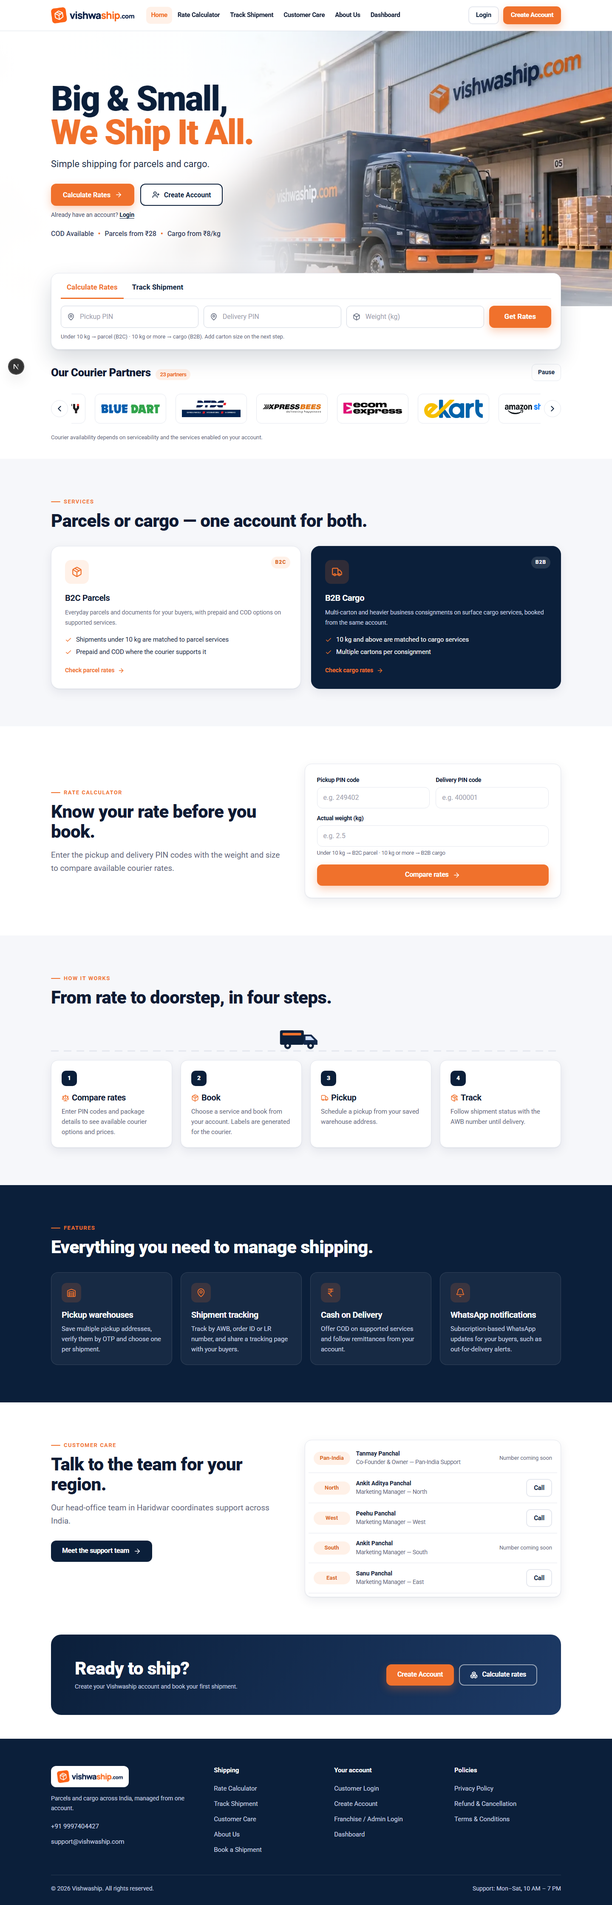
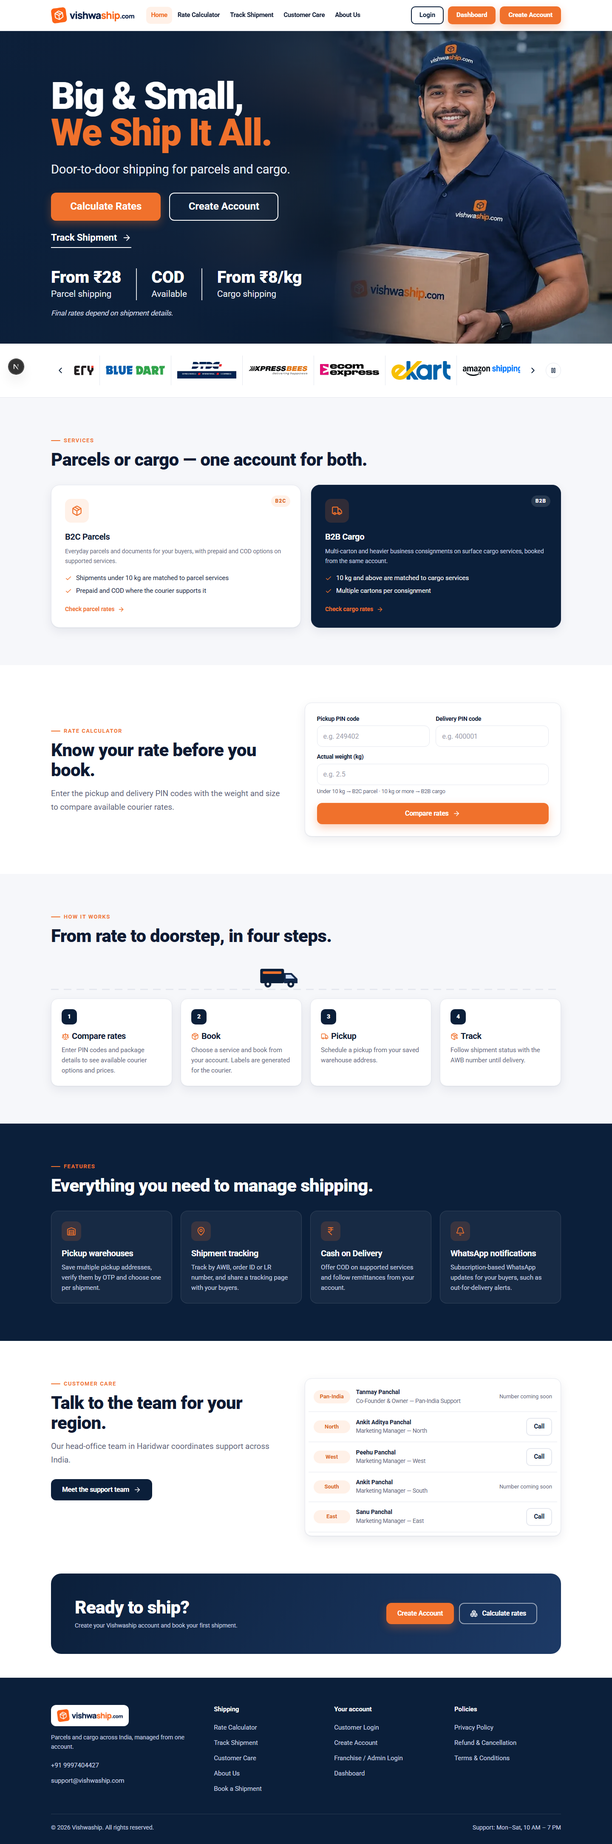
Home v4: navy courier hero, pricing highlights, header buttons per reference
- Warehouse/courier backgrounds for desktop and phones (public/brand/hero-courier-*.webp)
- Exact copy: Door-to-door line, Track Shipment link, From ₹28 / COD / From ₹8/kg + note
- Header: Login, Dashboard, Create Account; phones: logo, Dashboard, menu
- Partner strip below the hero; Admin fields for highlights and Track text

Changed region(s): [[0.0, 0.0, 1.0, 0.467], [0.0, 0.4982, 1.0, 0.9963], [0.0625, 0.4048, 0.4375, 0.467]]

diff --git a/src/styles/site-v2.css b/src/styles/site-v2.css
@@ -423,3 +423,76 @@
   .w-pin label{position:static;width:auto;height:auto;clip:auto;font-size:13.5px;font-weight:700;color:var(--n)}
 }
 @media (max-width:400px){.w-offerline span+span::before{margin:0 7px}}
+
+/* Header buttons (reference: Login outline · Dashboard · Create Account) */
+.w-btn.out{background:var(--w);color:var(--n);border:2px solid var(--n)}
+.w-btn.out:hover{background:var(--n);color:var(--w)}
+.w-acts .w-btn.sm{min-height:42px;padding:0 18px;font-size:15px}
+.w-mdash{min-height:42px!important;padding:0 14px!important;font-size:14px!important;gap:6px}
+
+/* Home hero v4: warehouse + courier photo, navy wash behind the text */
+.w-hero4{position:relative;isolation:isolate;background:var(--n);color:var(--w);overflow:hidden}
+.w-hero4 .w-hero-media{position:absolute;inset:0;z-index:-1;background:var(--n)}
+.w-hero4 .w-hero-media picture,.w-hero4 .w-hero-media img,.w-hero4 .w-hero-media video{display:block;width:100%;height:100%;object-fit:cover;object-position:right center}
+.w-hero4 .w-hero-media::after{content:"";position:absolute;inset:0;background:linear-gradient(90deg,rgba(11,31,58,.97) 0%,rgba(11,31,58,.92) 30%,rgba(11,31,58,.62) 50%,rgba(11,31,58,.18) 66%,rgba(11,31,58,.05) 100%)}
+.w-hero4 .in{padding:clamp(56px,6.4vw,92px) 20px clamp(40px,4.4vw,60px);min-height:clamp(560px,47vw,680px);display:flex;align-items:center}
+.w-hero4 .txt{max-width:690px}
+.w-hero4 .w-slogan{font-size:clamp(46px,6.1vw,92px);color:var(--w);line-height:.98}
+.w-hero4 .w-lead{color:#e6ebf4;font-size:clamp(18px,2vw,29px);margin-top:20px;max-width:none}
+.w-hero4 .w-btns{margin-top:30px;gap:20px}
+.w-hero4 .w-btn{min-height:clamp(52px,4.6vw,68px);padding:0 clamp(26px,3vw,46px);font-size:clamp(16px,1.7vw,24px);border-radius:12px}
+.w-hero4 .w-btn.sec{background:transparent;color:var(--w);border:2px solid var(--w)}
+.w-hero4 .w-btn.sec:hover{background:var(--w);color:var(--n)}
+.w-tracklink{display:inline-flex;align-items:center;gap:12px;margin-top:24px;color:var(--w);font-weight:700;font-size:clamp(17px,1.6vw,22px);text-decoration:none;padding-bottom:6px;border-bottom:2px solid var(--w)}
+.w-tracklink:hover{color:#ffb27f;border-color:#ffb27f}
+.w-tracklink svg{transition:transform .18s}
+.w-tracklink:hover svg{transform:translateX(4px)}
+.w-hl{margin-top:clamp(28px,3.4vw,48px)}
+.w-hl ul{list-style:none;margin:0;padding:0;display:flex;flex-wrap:wrap}
+.w-hl li{display:flex;flex-direction:column;gap:2px;padding:0 clamp(18px,2.4vw,36px)}
+.w-hl li:first-child{padding-left:0}
+.w-hl li+li{border-left:2px solid rgba(255,255,255,.85)}
+.w-hl b{font-size:clamp(24px,2.7vw,40px);font-weight:800;line-height:1.1;color:var(--w);white-space:nowrap}
+.w-hl span{font-size:clamp(14px,1.45vw,21px);color:#e6ebf4;white-space:nowrap}
+.w-hl p{margin:18px 0 0;font-style:italic;font-size:clamp(13px,1.15vw,17px);color:#d5dcea}
+.w-strip{background:var(--w);border-bottom:1px solid var(--ln)}
+.w-strip .pc{padding:22px 0}
+.pc-strip .pc-item a,.pc-strip .pc-item span{border:0;border-radius:0;height:clamp(56px,5vw,70px)}
+.pc-strip .pc-item+.pc-item a,.pc-strip .pc-item+.pc-item span{border-left:1px solid var(--ln)}
+.pc-strip .pc-track{gap:0;padding:6px 0}
+.pc-strip .pc-arrow{border:0;background:transparent;width:44px;height:44px}
+.pc-pause{border:1px solid var(--ln)!important;width:36px!important;height:36px!important}
+@media (min-width:720px) and (max-width:1023px){
+  .w-hero4 .txt{max-width:58%}
+  .w-hero4 .w-hero-media::after{background:linear-gradient(90deg,rgba(11,31,58,.97) 0%,rgba(11,31,58,.9) 40%,rgba(11,31,58,.5) 58%,rgba(11,31,58,.1) 78%)}
+  .w-hl li{padding:0 14px}
+  .w-hl b{font-size:22px}.w-hl span{font-size:13.5px}
+}
+@media (max-width:719px){
+  .w-hero4 .w-hero-media img,.w-hero4 .w-hero-media video{object-position:center bottom}
+  .w-hero4 .w-hero-media::after{background:linear-gradient(180deg,rgba(11,31,58,.96) 0%,rgba(11,31,58,.9) 30%,rgba(11,31,58,.55) 46%,rgba(11,31,58,.12) 60%,rgba(11,31,58,.25) 78%,rgba(11,31,58,.92) 92%),linear-gradient(90deg,rgba(11,31,58,.55) 0%,rgba(11,31,58,0) 60%)}
+  .w-hero4 .in{display:block;min-height:0;padding:40px 20px 28px}
+  .w-hero4 .w-hl{margin-top:clamp(200px,46vw,300px)}
+}
+@media (max-width:600px){
+  .w-hero4 .in{padding:30px 16px 24px}
+  .w-hero4 .w-slogan{font-size:clamp(38px,11.4vw,54px)}
+  .w-hero4 .w-lead{font-size:18px;margin-top:14px}
+  .w-hero4 .w-btns{flex-direction:column;align-items:stretch;gap:12px;max-width:min(270px,72vw)}
+  .w-hero4 .w-btn{width:100%;justify-content:center;min-height:54px;font-size:18px}
+  .w-tracklink{font-size:18px;margin-top:20px}
+  .w-hero4 .w-hl{margin-top:clamp(150px,52vw,230px)}
+  .w-hl ul{flex-wrap:nowrap;justify-content:space-between}
+  .w-hl li{padding:0 clamp(8px,3vw,14px);min-width:0}
+  .w-hl b{font-size:clamp(17px,5.6vw,24px)}
+  .w-hl span{font-size:clamp(11.5px,3.4vw,14px)}
+  .w-hl p{text-align:center;font-size:13px;margin-top:14px}
+  .w-strip .pc{padding:14px 0}
+  .pc-strip .pc-arrow{display:inline-flex;width:28px}
+  .pc-pause{display:none!important}
+  .pc-strip .pc-item a,.pc-strip .pc-item span{width:calc((100vw - 32px - 56px) / 3);height:48px;padding:4px 8px}
+}
+@media (max-width:360px){.w-mdash{padding:0 10px!important}.w-mdash svg{display:none}}
+@media (min-width:601px) and (max-width:719px){
+  .w-hero4 .w-hero-media::after{background:linear-gradient(90deg,rgba(11,31,58,.96) 0%,rgba(11,31,58,.86) 44%,rgba(11,31,58,.25) 64%,rgba(11,31,58,.05) 82%),linear-gradient(0deg,rgba(11,31,58,.95) 0%,rgba(11,31,58,.6) 18%,rgba(11,31,58,0) 34%)}
+}

diff --git a/src/components/site/HeroCtas.tsx b/src/components/site/HeroCtas.tsx
@@ -1,48 +1,31 @@
 "use client";
 import Link from "next/link";
-import { ArrowRight, LayoutDashboard, LogIn, Search, Shield, UserPlus } from "lucide-react";
+import { ArrowRight } from "lucide-react";
 import type { Links } from "@/lib/site-content";
 import type { SiteAuth } from "@/server/site/auth";
 import { accountLinks, useKnownBrowser } from "./SiteChromeV2";
 import { ADMIN_DASHBOARD } from "./nav";
 
 /**
- * Hero actions by account state:
- *  new / unknown visitor → Calculate Rates + Create Account (Login stays in the header)
- *  returning, signed out → Calculate Rates + Login (Create Account as a text link)
- *  signed-in customer    → Calculate Rates + Dashboard
- *  signed-in staff       → Calculate Rates + Admin Dashboard
+ * Hero actions (Calculate Rates + one account action + Track Shipment link), by account state:
+ *  new / unknown visitor → Create Account
+ *  returning, signed out → Login (Create Account stays in the header and menu)
+ *  signed-in customer    → Dashboard;   signed-in staff → Admin Dashboard
  */
-export function HeroCtas({ links, auth, text }: { links: Links; auth: SiteAuth; text: { primary: string; signup: string; login: string; dashboard: string } }) {
+export function HeroCtas({ links, auth, text }: { links: Links; auth: SiteAuth; text: { primary: string; signup: string; login: string; dashboard: string; track: string } }) {
   const known = useKnownBrowser();
   const L = accountLinks(links, auth);
-  const calc = <Link className="w-btn pri" href="/shipping-rate-calculator/">{text.primary} <ArrowRight size={18} aria-hidden="true" /></Link>;
-  if (auth.customer) return <div className="w-btns">{calc}<Link className="w-btn sec" href={L.dashboard}><LayoutDashboard size={18} aria-hidden="true" />{text.dashboard}</Link></div>;
-  if (auth.staff) return <div className="w-btns">{calc}<Link className="w-btn sec" href={ADMIN_DASHBOARD}><Shield size={18} aria-hidden="true" />Admin Dashboard</Link></div>;
-  if (known) {
-    return (
-      <>
-        <div className="w-btns">{calc}<a className="w-btn sec" href={L.login}><LogIn size={18} aria-hidden="true" />{text.login}</a></div>
-        <p className="w-hero-alt">Need another account? <a href={L.signup}>{text.signup}</a></p>
-      </>
-    );
-  }
+  const second = auth.customer ? <Link className="w-btn sec" href={L.dashboard}>{text.dashboard}</Link>
+    : auth.staff ? <Link className="w-btn sec" href={ADMIN_DASHBOARD}>Admin Dashboard</Link>
+      : known ? <a className="w-btn sec" href={L.login}>{text.login}</a>
+        : <a className="w-btn sec" href={L.signup}>{text.signup}</a>;
   return (
     <>
-      <div className="w-btns">{calc}<a className="w-btn sec" href={L.signup}><UserPlus size={18} aria-hidden="true" />{text.signup}</a></div>
-      <p className="w-hero-alt">Already have an account? <a href={L.login}>{text.login}</a></p>
-    </>
-  );
-}
-
-export function HeroTrack({ heading }: { heading: string }) {
-  return (
-    <form className="w-htrack" action="/track/" method="get" role="search" aria-label={heading}>
-      <label htmlFor="h-awb">{heading}</label>
-      <div className="f">
-        <input id="h-awb" name="awb" className="w-in" placeholder="Enter AWB or LR number" autoComplete="off" maxLength={40} required />
-        <button className="w-btn navy" type="submit"><Search size={18} aria-hidden="true" />Track</button>
+      <div className="w-btns">
+        <Link className="w-btn pri" href="/shipping-rate-calculator/">{text.primary}</Link>
+        {second}
       </div>
-    </form>
+      <Link className="w-tracklink" href="/track/">{text.track}<ArrowRight size={22} aria-hidden="true" /></Link>
+    </>
   );
 }

diff --git a/src/components/admin/WebsiteEditor.tsx b/src/components/admin/WebsiteEditor.tsx
@@ -130,9 +130,17 @@ export function WebsiteEditor({ initial, thresholdGrams }: { initial: Record<Sec
             <div className="split" style={{ gap: 12 }}><Field label="Login button (returning visitors)" value={h.loginCta} onChange={(v) => upd("home", { loginCta: v })} /><Field label="Dashboard button (signed-in customers)" value={h.dashboardCta} onChange={(v) => upd("home", { dashboardCta: v })} /></div>
             <Field label="Track box heading (hero)" value={h.trackHeading} onChange={(v) => upd("home", { trackHeading: v })} />
             <MediaField label="Hero background video (optional; MP4/WebM, muted, max 20 MB)" accept="video/mp4,video/webm" value={h.heroVideoUrl} onChange={(v) => upd("home", { heroVideoUrl: v })} hint="Keep it short (10–20 s) and compressed. Visitors with reduced motion or data saver see the poster." />
-            <MediaField label="Hero background — desktop (wide)" accept="image/png,image/jpeg,image/webp" value={h.heroPosterUrl} onChange={(v) => upd("home", { heroPosterUrl: v })} hint="About 1920×800 WebP/JPG under 400 KB. Keep the truck/warehouse on the right; the left is washed white behind the text." />
-            <MediaField label="Hero background — phone (portrait)" accept="image/png,image/jpeg,image/webp" value={h.heroMobileUrl} onChange={(v) => upd("home", { heroMobileUrl: v })} hint="About 780×1100. Light/empty at the top (behind the text), subject in the lower half." />
-            <Field label="Offer line under the buttons" value={h.offerLine} onChange={(v) => upd("home", { offerLine: v })} hint="Separate items with • — e.g. COD Available • Parcels from ₹28 • Cargo from ₹8/kg. Hidden when Offers are switched off for Home." />
+            <MediaField label="Hero background — desktop (wide)" accept="image/png,image/jpeg,image/webp" value={h.heroPosterUrl} onChange={(v) => upd("home", { heroPosterUrl: v })} hint="About 1920×800 WebP/JPG under 400 KB. Courier/subject on the right; the left is covered by the navy wash behind the text." />
+            <MediaField label="Hero background — phone (portrait)" accept="image/png,image/jpeg,image/webp" value={h.heroMobileUrl} onChange={(v) => upd("home", { heroMobileUrl: v })} hint="About 780×1400, used on phones (under 720 px). Quiet top for the text; courier lower-right." />
+            <Field label="Track link text" value={h.trackCta} onChange={(v) => upd("home", { trackCta: v })} />
+            <h3 className="small b mt12">Pricing highlights (under the buttons)</h3>
+            {h.highlights.map((x, i) => (
+              <div key={i} className="split" style={{ gap: 12 }}>
+                <Field label={`Highlight ${i + 1} — large text`} value={x.big} onChange={(v) => upd("home", { highlights: h.highlights.map((y, j) => (j === i ? { ...y, big: v } : y)) })} />
+                <Field label={`Highlight ${i + 1} — caption`} value={x.small} onChange={(v) => upd("home", { highlights: h.highlights.map((y, j) => (j === i ? { ...y, small: v } : y)) })} />
+              </div>
+            ))}
+            <Field label="Note under the highlights" value={h.highlightNote} onChange={(v) => upd("home", { highlightNote: v })} hint="Highlights are hidden when Offers are switched off for Home (Offers & features tab)." />
           </section>
           <section className="card" style={{ padding: 16 }}><h2 className="small b">Sections</h2>
             <Field label="Courier carousel heading" value={h.partnersHeading} onChange={(v) => upd("home", { partnersHeading: v })} />

diff --git a/src/components/site/PartnerCarousel.tsx b/src/components/site/PartnerCarousel.tsx
@@ -1,6 +1,6 @@
 "use client";
 import { useEffect, useRef, useState } from "react";
-import { ChevronLeft, ChevronRight } from "lucide-react";
+import { ChevronLeft, ChevronRight, Pause, Play } from "lucide-react";
 import type { Partner } from "@/lib/site-content";
 
 /**
@@ -9,7 +9,7 @@ import type { Partner } from "@/lib/site-content";
  * Pauses on hover, keyboard focus and touch (resumes a few seconds after the finger lifts); Pause button for
  * everyone; reduced-motion visitors get the same row without automatic movement. The loop copy is hidden from AT.
  */
-export function PartnerCarousel({ partners, heading, showCount = true, compact = false, bare = false }: { partners: Partner[]; heading: string; showCount?: boolean; compact?: boolean; bare?: boolean }) {
+export function PartnerCarousel({ partners, heading, showCount = true, compact = false, bare = false, strip = false }: { partners: Partner[]; heading: string; showCount?: boolean; compact?: boolean; bare?: boolean; strip?: boolean }) {
   const [paused, setPaused] = useState(false);
   const [reduced, setReduced] = useState(false);
   const vp = useRef<HTMLDivElement>(null);
@@ -63,15 +63,15 @@ export function PartnerCarousel({ partners, heading, showCount = true, compact =
   };
 
   return (
-    <section className={`pc${compact ? " pc-compact" : ""}${bare ? " pc-bare" : ""}`} aria-labelledby="pc-h">
-      <div className="pc-head">
+    <section className={`pc${compact ? " pc-compact" : ""}${bare || strip ? " pc-bare" : ""}${strip ? " pc-strip" : ""}`} aria-labelledby="pc-h">
+      {strip ? <h2 id="pc-h" className="sr-only">{heading}</h2> : <div className="pc-head">
         <h2 id="pc-h" className="pc-title">{heading}{showCount && <span className="pc-count">{unique.length} partners</span>}</h2>
         {!reduced && (
           <button type="button" className="pc-toggle" onClick={() => setPaused((v) => !v)} aria-pressed={paused}>
             {paused ? "Play" : "Pause"}<span className="sr-only"> partner logos</span>
           </button>
         )}
-      </div>
+      </div>}
       <div className="pc-row">
         <button type="button" className="pc-arrow" aria-label="Previous partners" onClick={() => nudge(-1)}><ChevronLeft size={22} aria-hidden="true" /></button>
         <div
@@ -94,8 +94,13 @@ export function PartnerCarousel({ partners, heading, showCount = true, compact =
           </ul>
         </div>
         <button type="button" className="pc-arrow" aria-label="Next partners" onClick={() => nudge(1)}><ChevronRight size={22} aria-hidden="true" /></button>
+        {strip && !reduced && (
+          <button type="button" className="pc-arrow pc-pause" onClick={() => setPaused((v) => !v)} aria-pressed={paused} aria-label={paused ? "Play partner logos" : "Pause partner logos"} title={paused ? "Play" : "Pause"}>
+            {paused ? <Play size={16} aria-hidden="true" /> : <Pause size={16} aria-hidden="true" />}
+          </button>
+        )}
       </div>
-      <p className="pc-note">Courier availability depends on serviceability and the services enabled on your account.</p>
+      {!strip && <p className="pc-note">Courier availability depends on serviceability and the services enabled on your account.</p>}
     </section>
   );
 }

diff --git a/src/components/site/SiteChromeV2.tsx b/src/components/site/SiteChromeV2.tsx
@@ -101,9 +101,10 @@ export function SiteHeaderV2({ links, auth, logoutCustomer, logoutStaff }: { lin
         <Link className="w-logo" href="/" aria-label="Vishwaship home"><img src="/brand/logo-full.png" alt="Vishwaship" width={168} height={38} /></Link>
         <nav className="w-nav" aria-label="Main">
           {SITE_NAV.map((n) => <Link key={n.href} href={n.href} aria-current={isCurrent(path, n.href) ? "page" : undefined}>{n.label}</Link>)}
-          <Link href={L.dashboard} aria-current={path.startsWith("/portal") ? "page" : undefined}>Dashboard</Link>
         </nav>
         <div className="w-acts">
+          {!signedIn && <a className="w-btn out sm" href={L.login}>Login</a>}
+          <Link className="w-btn pri sm" href={L.dashboard}>Dashboard</Link>
           {signedIn ? (
             <div className="w-acct" ref={acctRef}>
               <button type="button" className="w-acct-btn" aria-haspopup="menu" aria-expanded={acct} onClick={() => setAcct((a) => !a)}>
@@ -111,27 +112,15 @@ export function SiteHeaderV2({ links, auth, logoutCustomer, logoutStaff }: { lin
               </button>
               {acct && <div className="w-pop" role="menu"><AccountMenu auth={auth} logoutCustomer={logoutCustomer} logoutStaff={logoutStaff} onNavigate={() => setAcct(false)} /></div>}
             </div>
-          ) : known ? (
-            <>
-              <a className="w-btn ghost sm" href={L.signup}>Create Account</a>
-              <a className="w-btn pri sm" href={L.login}>Login</a>
-            </>
-          ) : (
-            <>
-              <a className="w-btn ghost sm" href={L.login}>Login</a>
-              <a className="w-btn pri sm" href={L.signup}>Create Account</a>
-            </>
-          )}
+          ) : <a className="w-btn pri sm" href={L.signup}>Create Account</a>}
         </div>
         <div className="w-micons">
-          <Link className="w-ic" href={L.dashboard} aria-label="Dashboard" title="Dashboard"><LayoutDashboard size={22} aria-hidden="true" /></Link>
-          {signedIn ? (
+          <Link className="w-btn pri sm w-mdash" href={L.dashboard}><LayoutDashboard size={18} aria-hidden="true" />Dashboard</Link>
+          {signedIn && (
             <div className="w-acct" ref={acctRef2}>
               <button type="button" className="w-ic" aria-label={`Account: ${name}`} aria-haspopup="menu" aria-expanded={acct} onClick={() => setAcct((a) => !a)}><UserCircle2 size={23} aria-hidden="true" /></button>
               {acct && <div className="w-pop" role="menu"><AccountMenu auth={auth} logoutCustomer={logoutCustomer} logoutStaff={logoutStaff} onNavigate={() => setAcct(false)} /></div>}
             </div>
-          ) : (
-            <a className="w-ic" href={L.login} aria-label="Account login" title="Login"><UserCircle2 size={23} aria-hidden="true" /></a>
           )}
           <button ref={burger} type="button" className="w-burger" aria-label="Open menu" aria-expanded={open} aria-controls="w-drawer" onClick={() => setOpen(true)}><Menu size={24} aria-hidden="true" /></button>
         </div>

diff --git a/src/app/(public)/page.tsx b/src/app/(public)/page.tsx
@@ -2,7 +2,6 @@ import Link from "next/link";
 import { ArrowRight, Bell, Boxes, Check, IndianRupee, MapPin, Package, PackageSearch, Scale, Truck, Warehouse } from "lucide-react";
 import { HeroMedia } from "@/components/site/HeroMedia";
 import { HeroCtas } from "@/components/site/HeroCtas";
-import { HeroPanel } from "@/components/site/HeroPanel";
 import { siteAuth } from "@/server/site/auth";
 import { PartnerCarousel } from "@/components/site/PartnerCarousel";
 import { accountHref, completeMobile, safeHref, visiblePartners } from "@/lib/site-content";
@@ -25,24 +24,24 @@ export default async function HomePage({ searchParams }: { searchParams: Promise
   const auth = await siteAuth();
   return (
     <>
-      <section className="w-hero3" aria-labelledby="hero-h">
-        <div className="w-hero-top">
+      <section className="w-hero4" aria-labelledby="hero-h">
         <HeroMedia video={h.heroVideoUrl} poster={h.heroPosterUrl} mobile={h.heroMobileUrl} />
         <div className="w-wrap in">
           <div className="txt">
             <h1 id="hero-h" className="w-slogan"><span>{h.heroLine1}</span><span className="o">{h.heroLine2}</span></h1>
             <p className="w-lead">{h.heroText}</p>
-            <HeroCtas links={c.links} auth={auth} text={{ primary: h.primaryCta, signup: h.secondaryCta, login: h.loginCta, dashboard: h.dashboardCta }} />
-            {c.offers.visible && c.offers.showOnHome && h.offerLine && (
-              <p className="w-offerline">{h.offerLine.split("•").map((x, i) => <span key={i}>{x.trim()}</span>)}</p>
+            <HeroCtas links={c.links} auth={auth} text={{ primary: h.primaryCta, signup: h.secondaryCta, login: h.loginCta, dashboard: h.dashboardCta, track: h.trackCta }} />
+            {c.offers.visible && c.offers.showOnHome && h.highlights.length > 0 && (
+              <div className="w-hl">
+                <ul>{h.highlights.map((x, i) => <li key={i}><b>{x.big}</b><span>{x.small}</span></li>)}</ul>
+                {h.highlightNote && <p>{h.highlightNote}</p>}
+              </div>
             )}
           </div>
         </div>
-        </div>
-        <div className="w-wrap w-panel-wrap"><HeroPanel showCalc={c.features.calculator} showTrack={c.features.tracking} threshold={kg} /></div>
       </section>
 
-      <div className="w-wrap"><PartnerCarousel partners={partners} heading={h.partnersHeading} bare /></div>
+      <div className="w-strip"><div className="w-wrap"><PartnerCarousel partners={partners} heading={h.partnersHeading} strip /></div></div>
 
       <section className="w-sec alt" aria-labelledby="svc-h">
         <div className="w-wrap">

diff --git a/src/lib/site-content.ts b/src/lib/site-content.ts
@@ -37,6 +37,10 @@ export const HomeSchema = z.object({
   /** Portrait crop for phones (falls back to heroPosterUrl). */
   heroMobileUrl: url,
   offerLine: text(160),
+  /** Pricing highlights under the hero buttons (big figure + small caption). */
+  highlights: z.array(z.object({ big: text(30), small: text(40) })).max(4),
+  highlightNote: text(160),
+  trackCta: text(40),
   partnersHeading: text(80),
   servicesHeading: text(120),
   b2cTitle: text(80),
@@ -161,16 +165,19 @@ export const DEFAULTS: SiteContent = {
   home: {
     heroLine1: "Big & Small,",
     heroLine2: "We Ship It All.",
-    heroText: "Simple shipping for parcels and cargo.",
+    heroText: "Door-to-door shipping for parcels and cargo.",
     primaryCta: "Calculate Rates",
     secondaryCta: "Create Account",
     loginCta: "Login",
     dashboardCta: "Go to Dashboard",
     trackHeading: "Track a shipment",
     heroVideoUrl: "",
-    heroPosterUrl: "/brand/hero-desktop.webp",
-    heroMobileUrl: "/brand/hero-mobile.webp",
+    heroPosterUrl: "/brand/hero-courier-desktop.webp",
+    heroMobileUrl: "/brand/hero-courier-mobile.webp",
     offerLine: "COD Available • Parcels from ₹28 • Cargo from ₹8/kg",
+    highlights: [{ big: "From ₹28", small: "Parcel shipping" }, { big: "COD", small: "Available" }, { big: "From ₹8/kg", small: "Cargo shipping" }],
+    highlightNote: "Final rates depend on shipment details.",
+    trackCta: "Track Shipment",
     partnersHeading: "Our Courier Partners",
     servicesHeading: "Parcels or cargo — one account for both.",
     b2cTitle: "B2C Parcels",

diff --git a/src/server/site/content.ts b/src/server/site/content.ts
@@ -49,7 +49,10 @@ export async function getSiteContent(opts: { preview?: boolean } = {}): Promise<
   c.partners = { items: mergePartners(c.partners.items) };
   c.links = upgradeLinks(c.links);
   // the earlier default hero photo is replaced by the warehouse-and-truck background
-  if (c.home.heroPosterUrl === "/brand/hero.jpg") c.home.heroPosterUrl = DEFAULTS.home.heroPosterUrl;
+  // earlier built-in hero images/copy are replaced by the current defaults (custom uploads are kept)
+  if (["/brand/hero.jpg", "/brand/hero-desktop.webp"].includes(c.home.heroPosterUrl)) c.home.heroPosterUrl = DEFAULTS.home.heroPosterUrl;
+  if (["", "/brand/hero-mobile.webp"].includes(c.home.heroMobileUrl)) c.home.heroMobileUrl = DEFAULTS.home.heroMobileUrl;
+  if (["Simple shipping for parcels and cargo.", "Compare courier rates, book parcels and cargo, and manage your shipments with Vishwaship.", "From everyday parcels to business cargo, manage your shipping with Vishwaship."].includes(c.home.heroText)) c.home.heroText = DEFAULTS.home.heroText;
   return c;
 }
 

diff --git a/src/components/site/HeroMedia.tsx b/src/components/site/HeroMedia.tsx
@@ -28,7 +28,7 @@ export function HeroMedia({ video, poster, mobile }: { video: string; poster: st
           ? <video ref={ref} src={video} poster={poster || undefined} autoPlay muted loop playsInline preload="metadata" onPause={() => setPlaying(false)} onPlay={() => setPlaying(true)} />
           : poster ? (
             <picture>
-              {mobile && <source media="(max-width: 1023px)" srcSet={mobile} />}
+              {mobile && <source media="(max-width: 719px)" srcSet={mobile} />}
               <img src={poster} alt="" fetchPriority="high" decoding="async" />
             </picture>
           ) : null}

diff --git a/docs/SITE-NAV-HANDOVER.md b/docs/SITE-NAV-HANDOVER.md
@@ -53,3 +53,11 @@ Screenshots: `docs/screenshots/site-{home,rate-calculator,track}-{desktop,mobile
 - **Background assets:** `public/brand/hero-desktop.webp` (1920×800) and `public/brand/hero-mobile.webp` (780×1100, used up to 1023 px). Cut from the truck-and-warehouse part of the supplied reference design (no image generator was available); a higher-resolution original photo would be sharper on large/retina screens — upload it in Admin → Website Content → Home (desktop and phone fields).
 - Admin → Website Content → Home: headline, text, button texts, offer line, desktop/phone background, optional video.
 - Checked: no horizontal overflow at 360, 390, 768, 1024, 1440 px; Get Rates carries PINs and weight into the calculator; Track opens the shipment result; carousel stays in one row.
+
+## Home page v4 (courier reference) — replaces v3 hero
+- Desktop (720 px and wider): navy wash on the left over a warehouse photo with the Vishwaship courier and parcel on the right; white "Big & Small," / orange "We Ship It All."; "Door-to-door shipping for parcels and cargo."; Calculate Rates + Create Account (Login / Dashboard by account state); "Track Shipment →"; highlights From ₹28 · COD · From ₹8/kg with "Final rates depend on shipment details."; white partner strip directly below (one row, arrows, pause).
+- Phones (under 720 px): own composition — copy and full-width buttons on top, courier face and parcel lower-right, highlights in one row at the bottom, then the 3-logos-wide strip.
+- Header: Login (outline), Dashboard, Create Account; phones show logo, Dashboard and the menu (all destinations, Franchise/Admin Login inside).
+- **Background assets:** `public/brand/hero-courier-desktop.webp` (1920×800) and `public/brand/hero-courier-mobile.webp` (780×1400). Cut from the photo part of the supplied reference (no image generator was available); upload a higher-resolution original in Admin → Website Content → Home to make it sharper on large screens.
+- Editable in Admin → Website Content → Home: headline, supporting text, button and Track link texts, highlights and note, desktop/phone backgrounds, optional video. The earlier floating rates/track panel was removed to match this design; the Home "Rate calculator" quick form further down the page remains.
+- Checked at 360, 390, 640, 768, 1024, 1440 px: no horizontal overflow; all links resolve as in the route table; 23 partner logos in one row.
